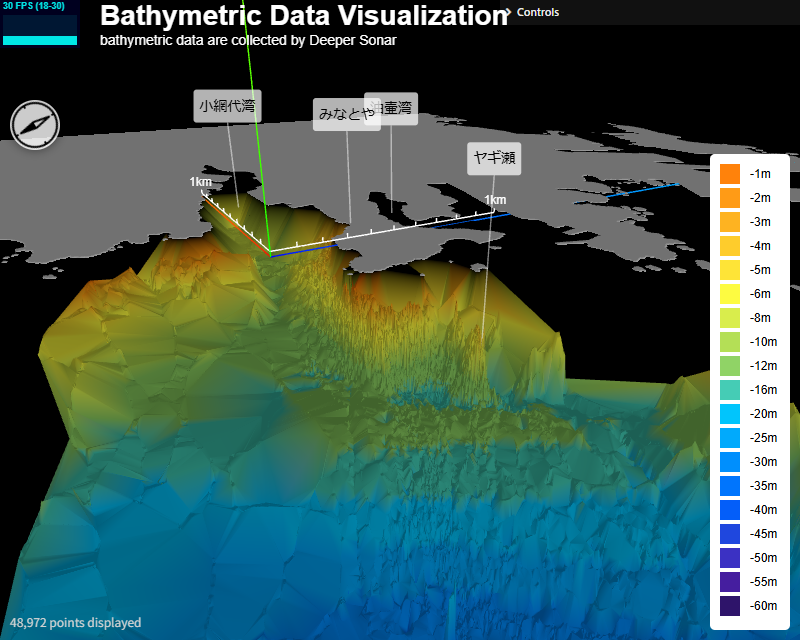
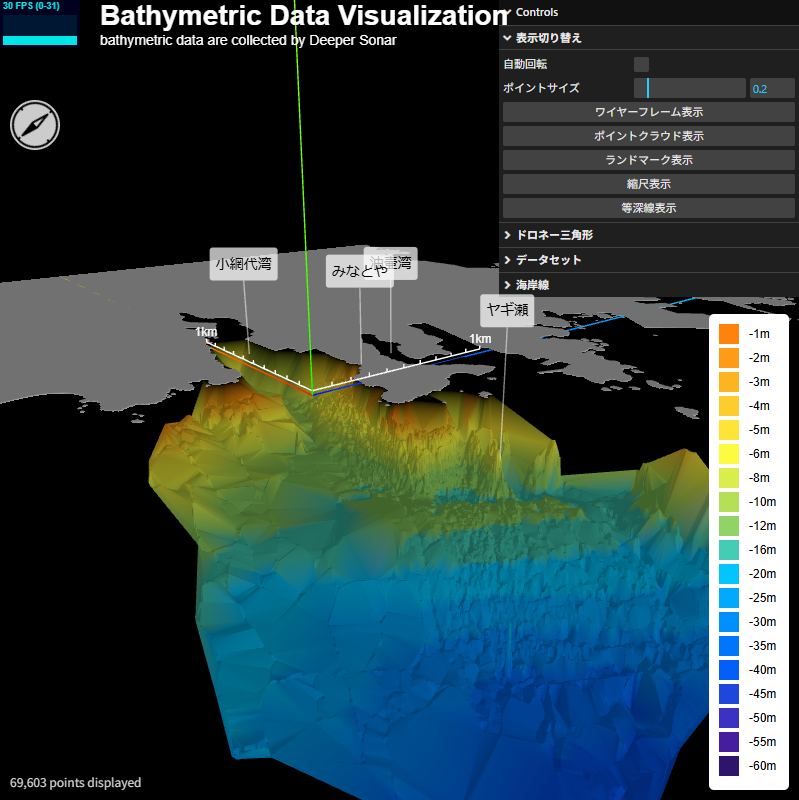
add contour

diff --git a/static/site/js/visualize-bathymetric-data-dev.js b/static/site/js/visualize-bathymetric-data-dev.js
@@ -125,6 +125,12 @@ export class Main {
   // 地形図のメッシュのリスト（guiで表示を操作するためにインスタンス変数にする）
   terrainMeshList = [];
 
+  // 等深線の線分を格納する配列
+  contourLineList = [];
+
+  // 等深線を描画する深さのリスト
+  contourTargetDepths = [-10.0, -20.0, -30.0, -40.0, -50.0];
+
   // 設定用パラメータ（これらはデフォルト値で、HTMLで指定されたものがあれば上書きされる）
   params = {
 
@@ -180,6 +186,9 @@ export class Main {
 
     // ワイヤーフレーム表示にする？
     wireframe: false,
+
+    // 等圧線を表示する？
+    showContourLines: true,
 
     // コントローラの設定
     autoRotate: false,
@@ -812,6 +821,13 @@ export class Main {
         this.params.showScale = !this.params.showScale;
         this.camera.layers.toggle(2);
       },
+
+      'contourLines': () => {
+        this.params.showContourLines = !this.params.showContourLines;
+        this.contourLineList.forEach((line) => {
+          line.visible = this.params.showContourLines;
+        });
+      }
     };
 
     displayFolder
@@ -829,6 +845,10 @@ export class Main {
     displayFolder
       .add(displayParams, 'scale')
       .name(navigator.language.startsWith("ja") ? "縮尺表示" : "Scale");
+
+    displayFolder
+      .add(displayParams, 'contourLines')
+      .name(navigator.language.startsWith("ja") ? "等深線表示" : "Contour Lines");
 
     // ドロネー三角形に関するフィルタ処理
     const delaunayFolder = gui.addFolder(navigator.language.startsWith("ja") ? "ドロネー三角形" : "Delaunay Filter");
@@ -1024,6 +1044,7 @@ export class Main {
   }
 
 
+
   //
   // CSVデータをもとにドロネー三角形でメッシュ化する
   //
@@ -1076,6 +1097,7 @@ export class Main {
     const terrainGeometry = new THREE.BufferGeometry().setFromPoints(positions);
     terrainGeometry.setAttribute('color', new THREE.Float32BufferAttribute(colors, 3));
 
+    const contourLineList = [];
     const meshIndex = [];
     for (let i = 0; i < delaunay.triangles.length; i += 3) {
       const a = delaunay.triangles[i + 0];
@@ -1087,9 +1109,15 @@ export class Main {
       const posB = positions[b];
       const posC = positions[c];
 
-      // 三角形が有効かどうかを判定して、メッシュインデックスに追加
+      // 三角形が有効かどうかを判定
       if (this.isValidTriangle(posA, posB, posC)) {
+
+        // メッシュインデックスに追加
         meshIndex.push(a, b, c);
+
+        // 等深線を作成してリストに追加
+        const contourLines = this.createContourLines(posA, posB, posC);
+        contourLineList.push(...contourLines);
       }
     }
 
@@ -1107,12 +1135,77 @@ export class Main {
     this.scene.add(terrainMesh);
     terrainMeshList.push(terrainMesh);
 
+    // 等深線をシーンに追加
+    this.scene.add(...contourLineList);
+
     // 何個のポイントが表示されているかを表示
     document.getElementById('debugContainer').textContent = `${this.params.totalPointCount.toLocaleString()} points displayed`;
 
     // インスタンス変数に保存
     this.pointMeshList = pointMeshList;
     this.terrainMeshList = terrainMeshList;
+    this.contourLineList = contourLineList;
+
+  }
+
+
+  //
+  // 三角形の各辺と等深線の交点を計算して等深線を作成
+  //
+  createContourLines = (posA, posB, posC) => {
+
+    // THREE.Line()を格納するリスト
+    const contourLineList = [];
+
+    const minTriDepth = Math.min(posA.y, posB.y, posC.y);
+    const maxTriDepth = Math.max(posA.y, posB.y, posC.y);
+
+    for (let d = 0; d < this.contourTargetDepths.length; d++) {
+      const targetDepth = this.contourTargetDepths[d];
+      if (targetDepth >= minTriDepth && targetDepth <= maxTriDepth) {
+        // 三角形の各辺で等深線との交点を探す
+        const intersections = [];
+        // 辺AB
+        if ((posA.y - targetDepth) * (posB.y - targetDepth) < 0) {
+          const t = (targetDepth - posA.y) / (posB.y - posA.y);
+          intersections.push(new THREE.Vector3(
+            posA.x + t * (posB.x - posA.x),
+            targetDepth,
+            posA.z + t * (posB.z - posA.z)
+          ));
+        }
+        // 辺BC
+        if ((posB.y - targetDepth) * (posC.y - targetDepth) < 0) {
+          const t = (targetDepth - posB.y) / (posC.y - posB.y);
+          intersections.push(new THREE.Vector3(
+            posB.x + t * (posC.x - posB.x),
+            targetDepth,
+            posB.z + t * (posC.z - posB.z)
+          ));
+        }
+        // 辺CA
+        if ((posC.y - targetDepth) * (posA.y - targetDepth) < 0) {
+          const t = (targetDepth - posC.y) / (posA.y - posC.y);
+          intersections.push(new THREE.Vector3(
+            posC.x + t * (posA.x - posC.x),
+            targetDepth,
+            posC.z + t * (posA.z - posC.z)
+          ));
+        }
+
+        // 2つの交点があれば線分を作成
+        if (intersections.length === 2) {
+          const geometry = new THREE.BufferGeometry().setFromPoints(intersections);
+          const color = this.getDepthColor(targetDepth);
+          const material = new THREE.LineBasicMaterial({ color: color });
+          const line = new THREE.Line(geometry, material);
+          line.visible = this.params.showContourLines;
+          contourLineList.push(line);
+        }
+      }
+    }
+
+    return contourLineList;
   }
 
 

diff --git a/README.ja.md b/README.ja.md
@@ -48,9 +48,7 @@ Deeperのサブスクリプション会員になると3Dでマップが表示さ
 
 [Live Demo](https://takamitsu-iida.github.io/aburatsubo-terrain-data/index-bathymetric-data.html)
 
-<!--
 [Live Demo (開発中)](https://takamitsu-iida.github.io/aburatsubo-terrain-data/index-bathymetric-data-dev.html)
--->
 
 <br>
 
@@ -69,6 +67,12 @@ Deeperのサブスクリプション会員になると3Dでマップが表示さ
 **スクリーンショット** (メッシュ)
 
 ![mesh](/assets/screen_mesh.png)
+
+<br>
+
+**スクリーンショット** (等深線)
+
+<img src="/assets/screen_contour.png" width="640">
 
 <br>
 

diff --git a/README.md b/README.md
@@ -61,9 +61,7 @@ I created a custom 3D visualization tool. It's specifically for Aburatsubo in Ka
 
 [Live Demo](https://takamitsu-iida.github.io/aburatsubo-terrain-data/index-bathymetric-data.html)
 
-<!--
 [Live Demo](https://takamitsu-iida.github.io/aburatsubo-terrain-data/index-bathymetric-data-dev.html)
--->
 
 <br>
 
@@ -82,6 +80,12 @@ I created a custom 3D visualization tool. It's specifically for Aburatsubo in Ka
 **screen shot** (mesh)
 
 <img src="/assets/screen_mesh.png" width="640">
+
+<br>
+
+**screen shot** (contour)
+
+<img src="/assets/screen_contour.png" width="640">
 
 <br><br>
 
